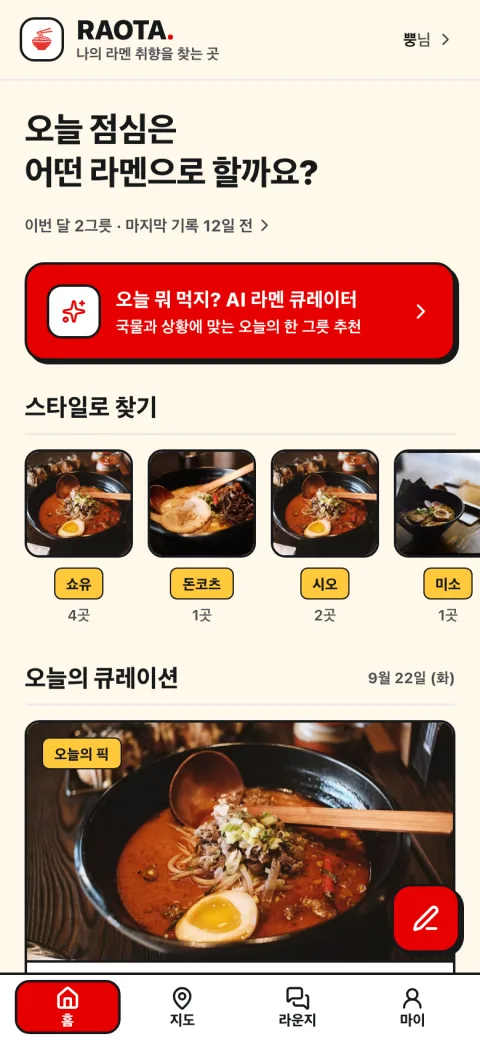
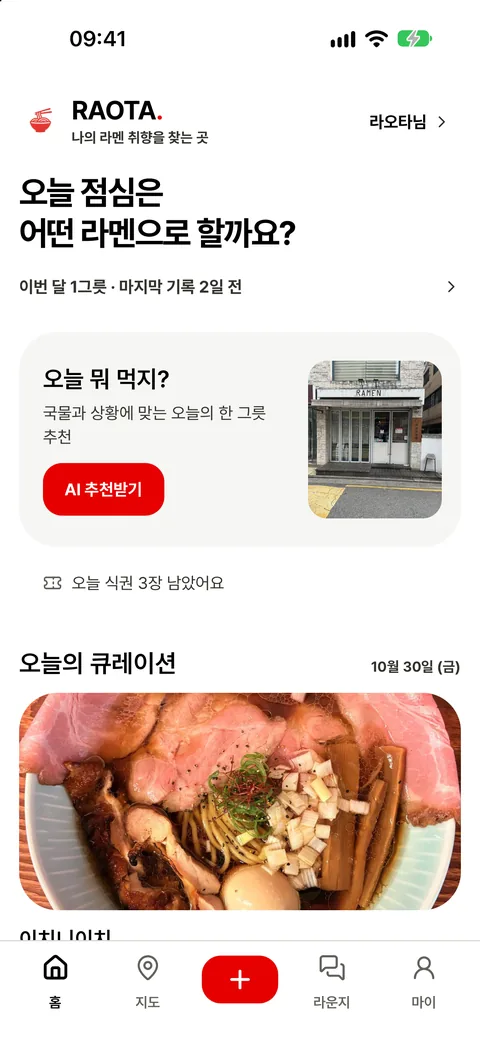
chore(앱 출시 알림): 출시 시기를 11월로 바꾸고 미리보기를 실제 앱 화면으로 교체
- 팝업 제목 '10월 중에 나와요' → '11월 중에 나와요'
- 홈·지도·마이 미리보기를 피그마 시안에서 실제 앱(시뮬레이터) 화면으로 교체, 대체 텍스트도 화면 내용에 맞춤

diff --git a/app/components/AppPreRegisterModal.tsx b/app/components/AppPreRegisterModal.tsx
@@ -25,9 +25,9 @@ const PLATFORMS = [
 type Platform = (typeof PLATFORMS)[number]['value'];
 
 const APP_SCREENS = [
-  { src: '/app-preview/home.webp', label: '홈', alt: '라오타 앱 홈 화면: AI 라멘 큐레이터와 스타일별 탐색' },
-  { src: '/app-preview/map.webp', label: '지도', alt: '라오타 앱 지도 화면: 주변 라멘집 핀과 매장 카드' },
-  { src: '/app-preview/my.webp', label: '마이', alt: '라오타 앱 마이 화면: 누적 라멘로그와 취향 리포트' },
+  { src: '/app-preview/home.webp', label: '홈', alt: '라오타 앱 홈 화면: AI 라멘 추천과 오늘의 큐레이션' },
+  { src: '/app-preview/map.webp', label: '지도', alt: '라오타 앱 지도 화면: 주변 라멘집 핀과 영업 중인 매장 카드' },
+  { src: '/app-preview/my.webp', label: '마이', alt: '라오타 앱 마이 화면: 라멘로그 수, 등급, 종류별 기록' },
 ];
 
 const FEATURES = [
@@ -124,7 +124,7 @@ export default function AppPreRegisterModal() {
                     src={screen.src}
                     alt={screen.alt}
                     width={480}
-                    height={1039}
+                    height={1044}
                     sizes="(min-width: 768px) 160px, 90px"
                     priority={index === 1}
                     className="h-auto w-full rounded-[10px] ring-1 ring-white/15"
@@ -146,7 +146,7 @@ export default function AppPreRegisterModal() {
             >
               라오타 앱이
               <br />
-              10월 중에 나와요
+              11월 중에 나와요
             </h2>
             <p className="mt-2 text-[15px] leading-relaxed text-stone-600">
               iPhone(iOS) 앱부터 먼저 출시돼요.

diff --git a/DESIGN.md b/DESIGN.md
@@ -248,7 +248,7 @@ The shop-detail 1:1 compare panel is a secondary action at the bottom of a detai
 Global app-launch notice (`AppPreRegisterModal`, mounted in `ClientLayout` for every non-admin route).
 
 - Layout: desktop is a two-column dialog (charcoal `#25282b` panel with three real in-development app screens, white form column); mobile is a bottom sheet whose whole form, CTA included, fits a 390×844 viewport without scrolling. The feature list is desktop-only for that reason
-- App screens come from `raota-app/scratch/figma-spec/shots/` as 480px-wide webp in `public/app-preview/`; keep the three at the same aspect ratio
+- App screens are iOS simulator screenshots of the real app (`raota-app`, status bar 09:41) as 480px-wide webp in `public/app-preview/`; keep the three at the same aspect ratio
 - Surface: flat, 2px rectangles, one red CTA (`출시 알림 받기`); dismiss actions (`오늘 하루 보지 않기` 24h, `닫기` session) are quiet footer text buttons
 - Data goes to the "라오타 사전예약" Google Form via `no-cors` POST. Browser code cannot see rejections, so radio/checkbox values (`IOS`, `안드로이드`, `옵션 1`) and entry IDs must match the form exactly; change both together
 
